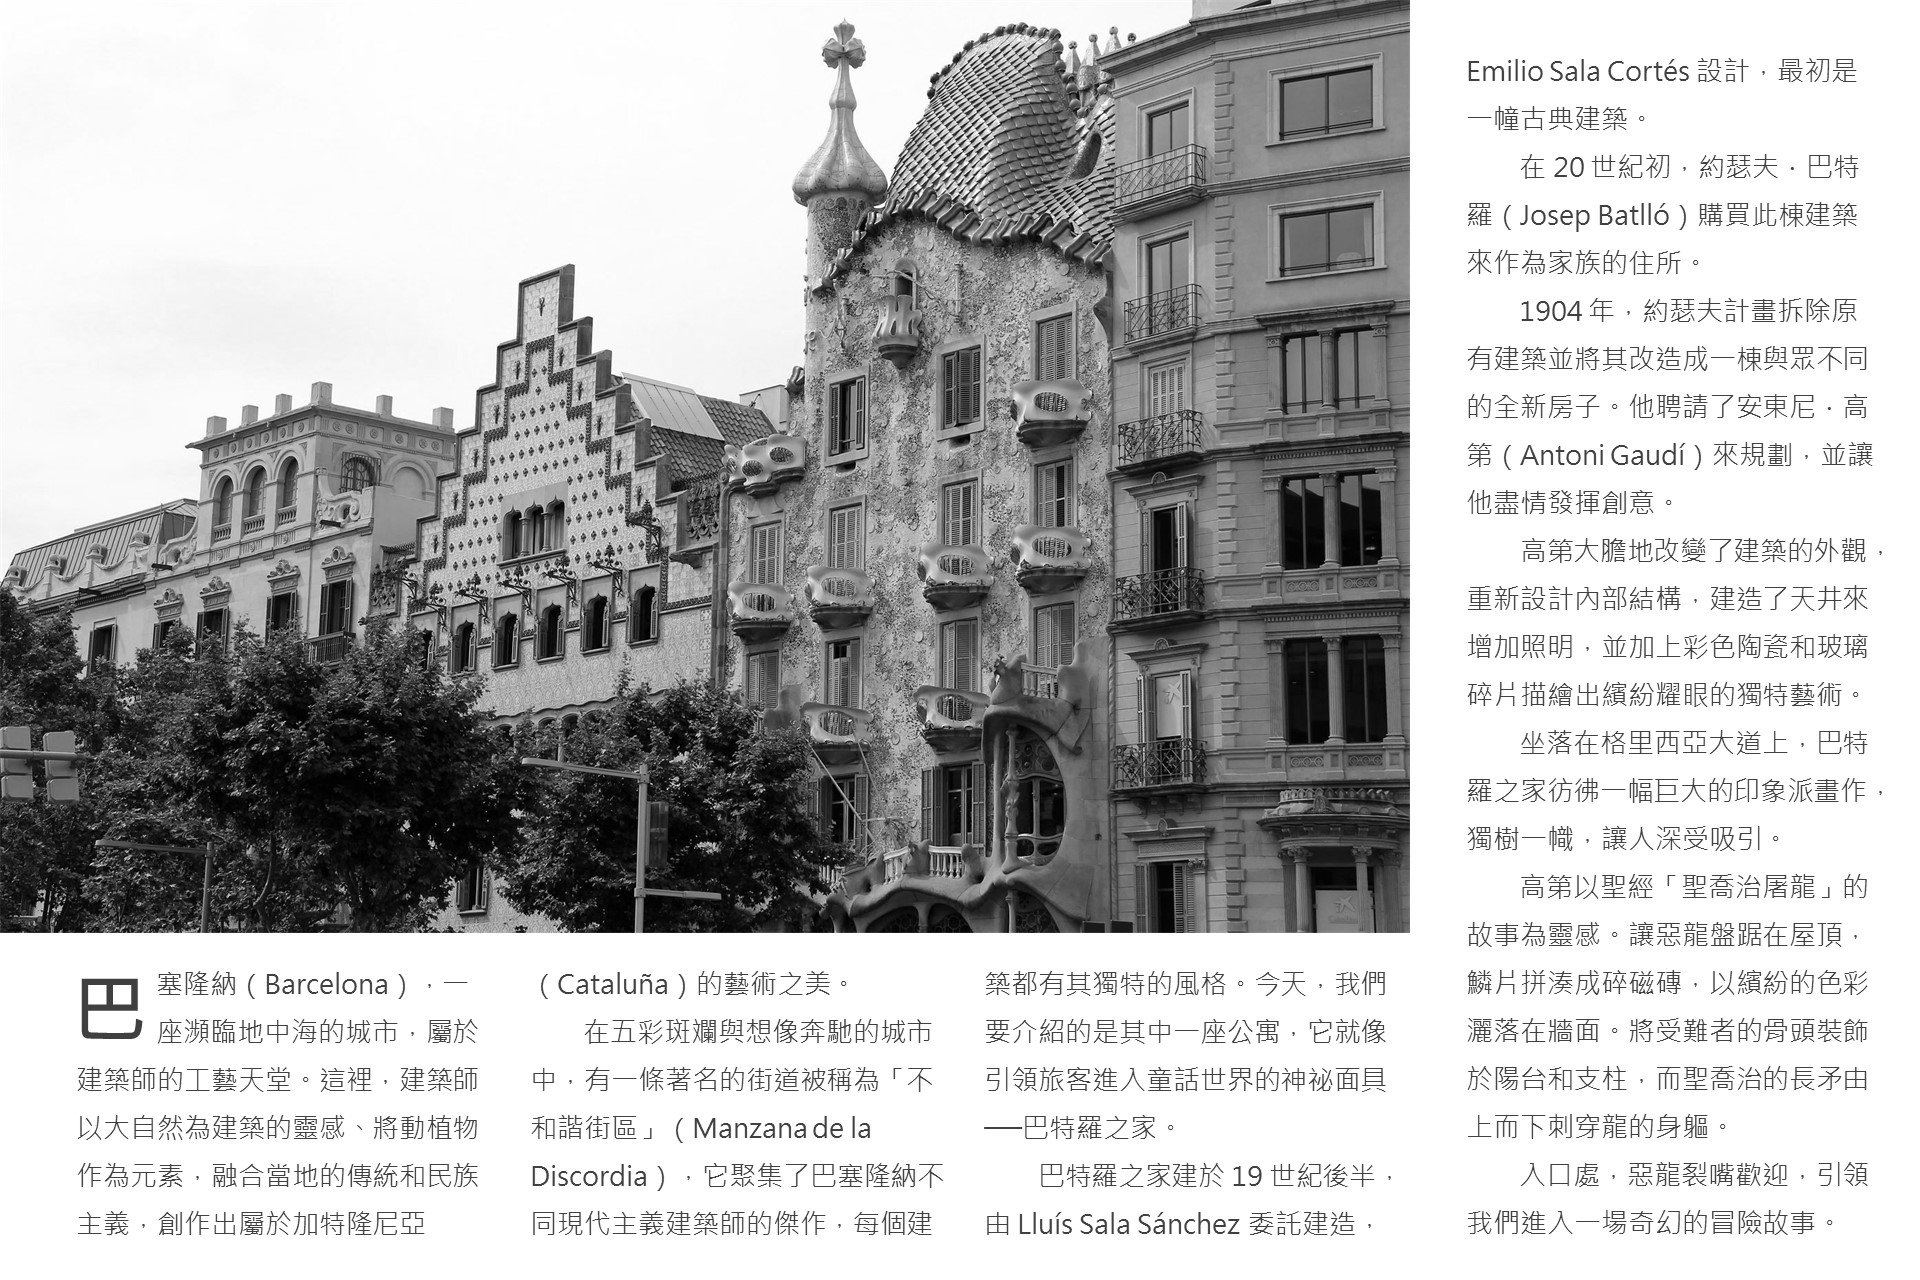
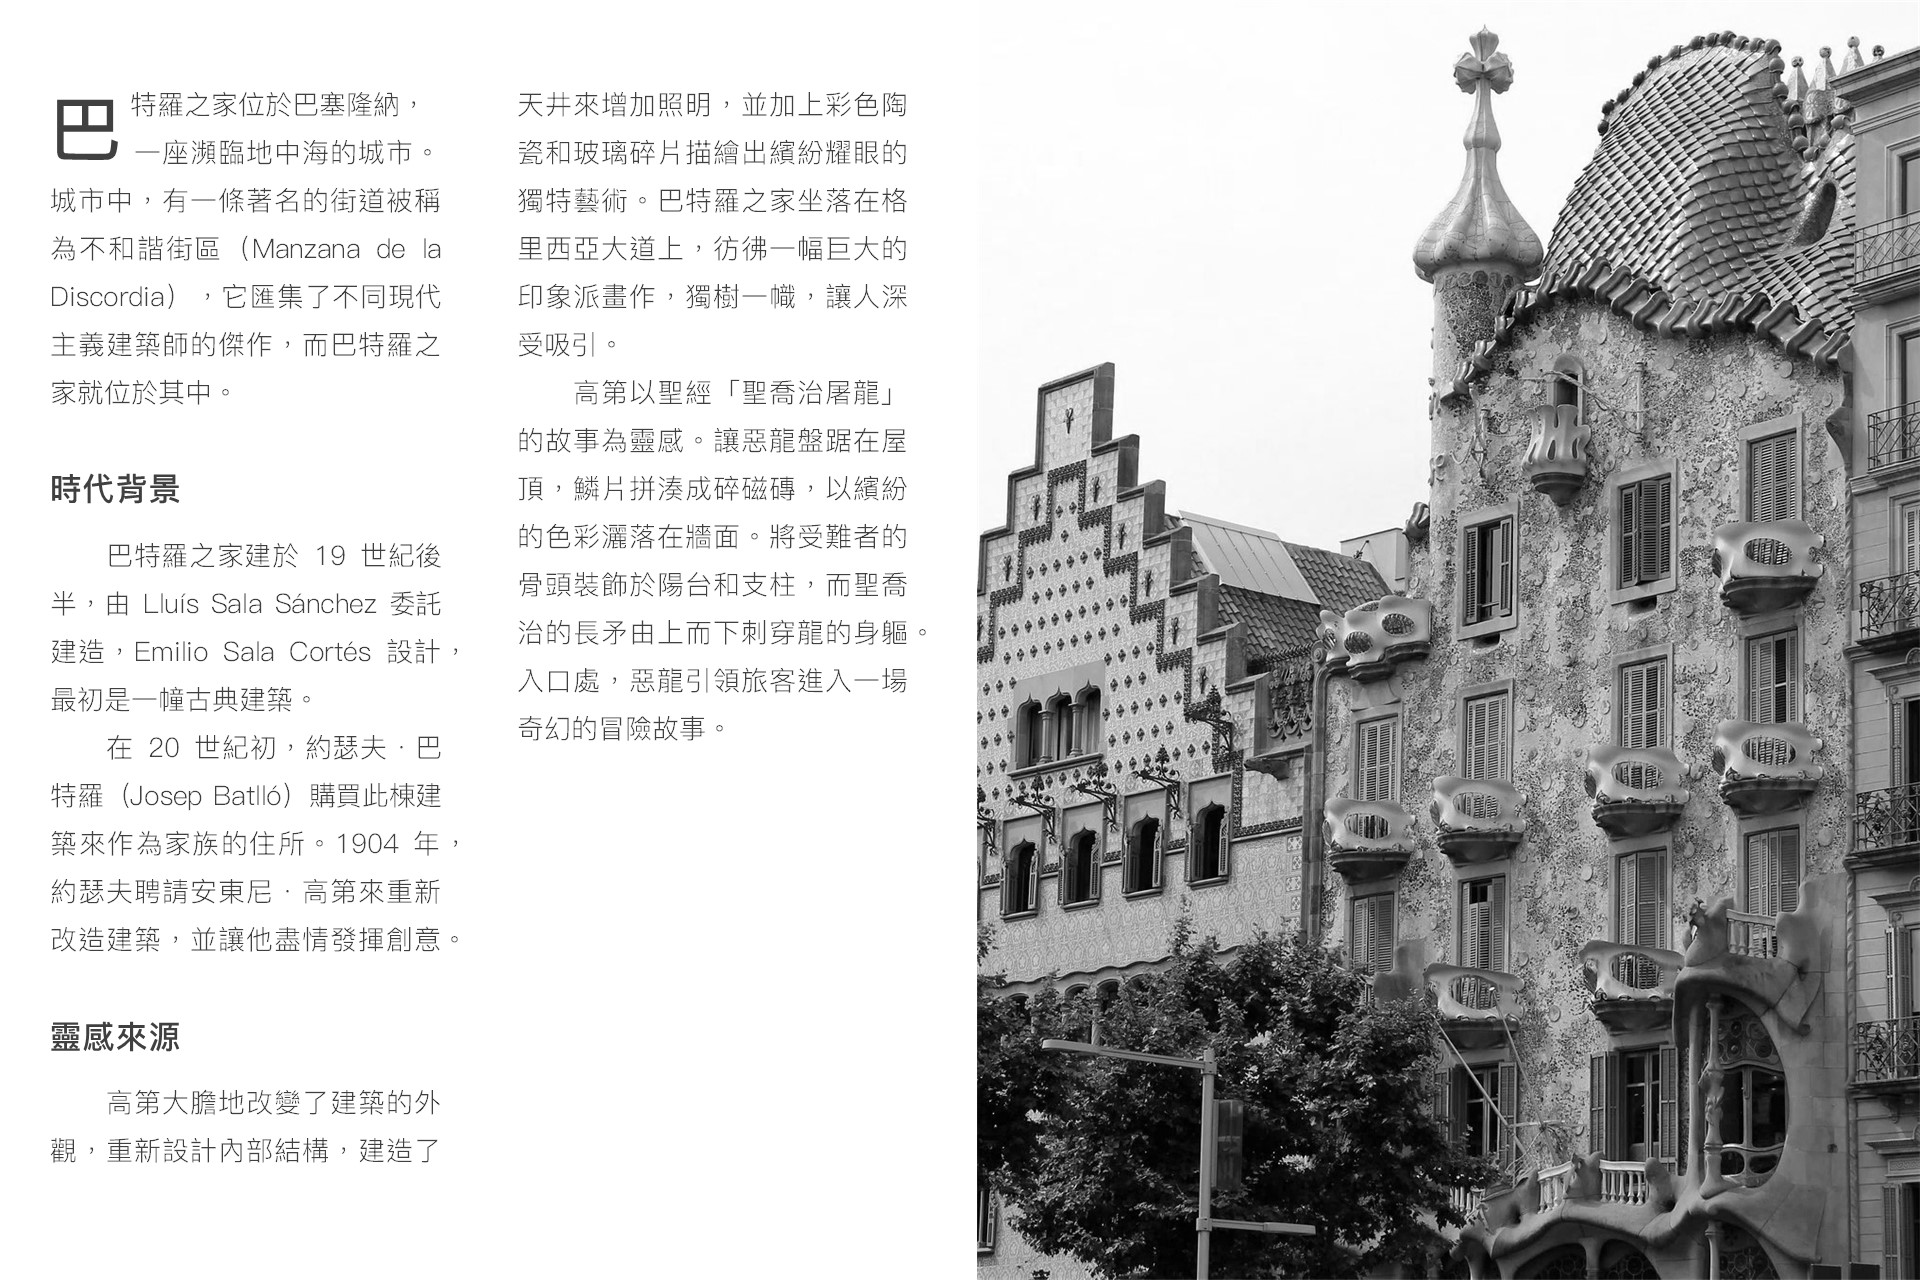
教材圖片修改

diff --git a/pages/materials/ver01.html b/pages/materials/ver01.html
@@ -34,18 +34,21 @@
 
   <!-- 教材 -->
   <div class="main">
-    <div class="bgDark">
-      <div class="bannerInfo">
-        <div class="card js-flip">
+
+
+        <img src="../../materials/CasaBatlloBG01.JPG" alt="">
+
+        <img src="../../materials/CasaBatlloBG02.JPG" alt="">
+        <!-- <div class="card js-flip">
           <div class="cardFront">
             <img src="../../materials/CasaBatlloBG01.JPG" alt="">
           </div>
           <div class="cardBack">
             <img src="../../materials/CasaBatlloBG02.JPG" alt="">
           </div>
-        </div>
-      </div>
-    </div>
+        </div> -->
+
+
 
     <div class="bannerFooter">
       <a class=" btn btn_s" id="btn01">閱讀完後，請點此按鈕開始填寫問卷與測驗</a>

diff --git a/js/all.js b/js/all.js
@@ -42,6 +42,8 @@ btn01.addEventListener('click', function(e){
   // bannerFooter.classList.add('close')
   main.classList.add('close')
   questionnaire.classList.remove('close')
+  window.document.body.scrollTop = 0
+  window.document.documentElement.scrollTop = 0
 }, false)
 
 }
